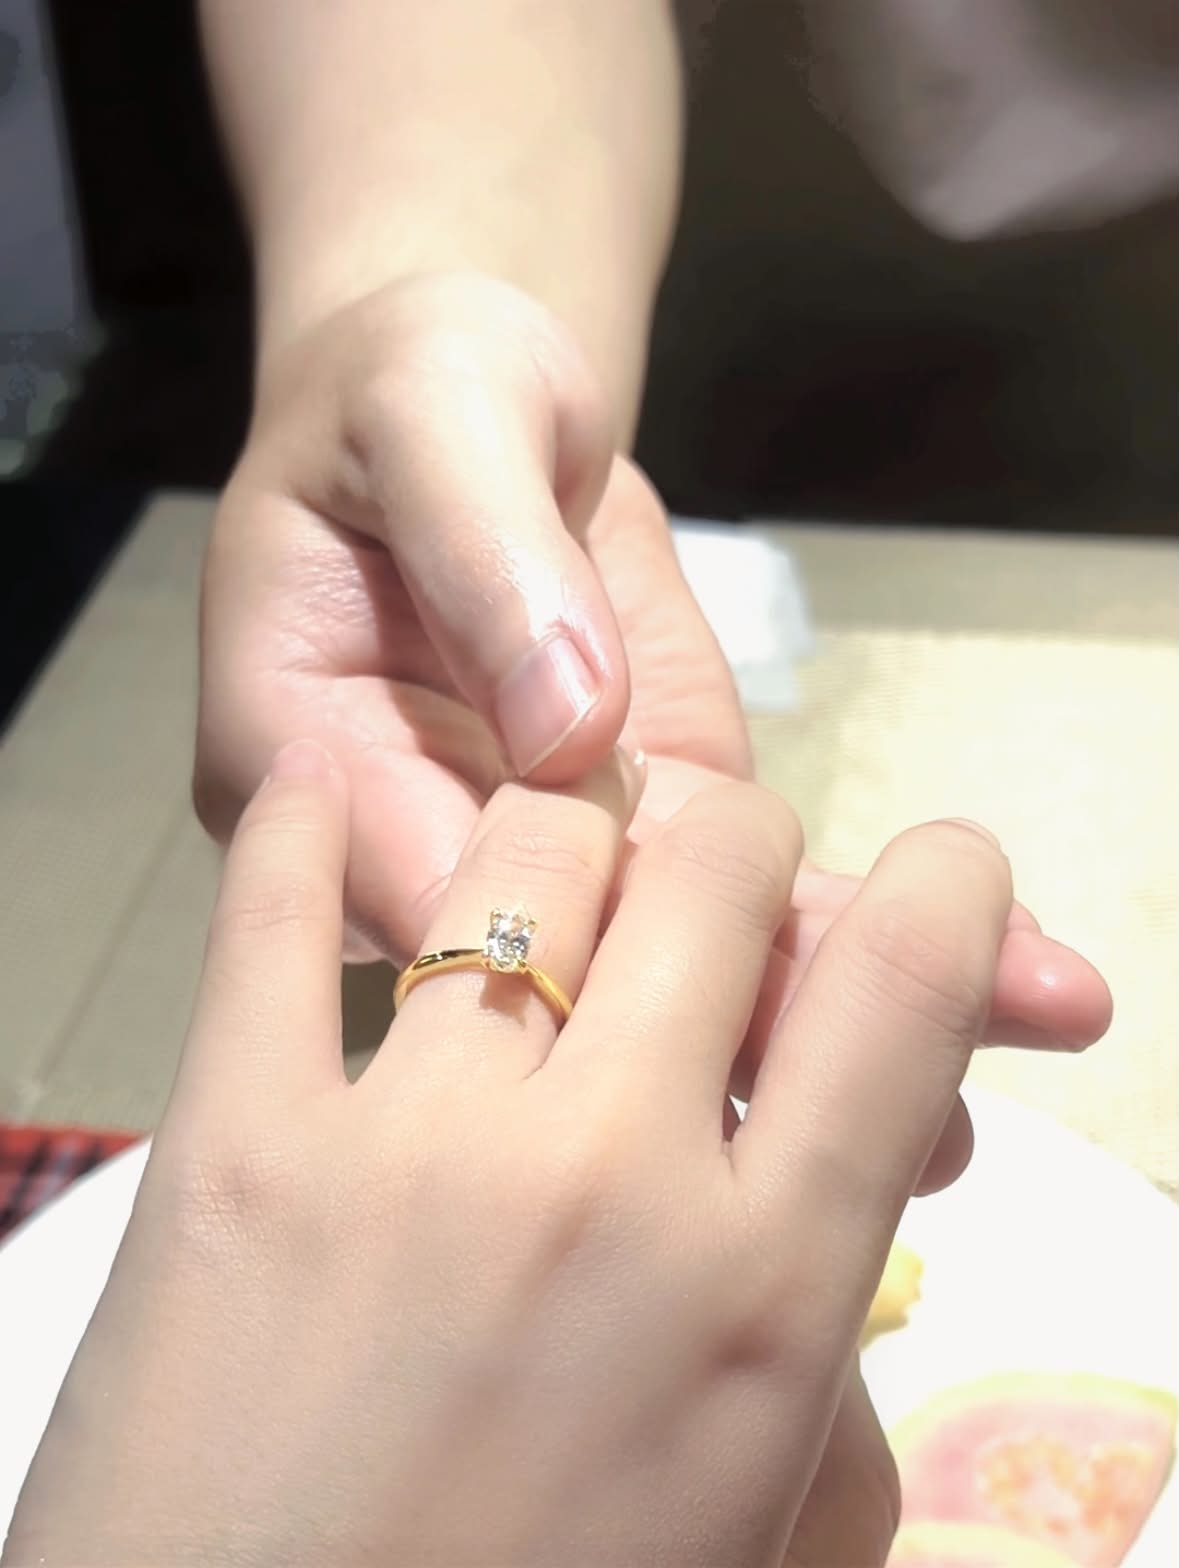
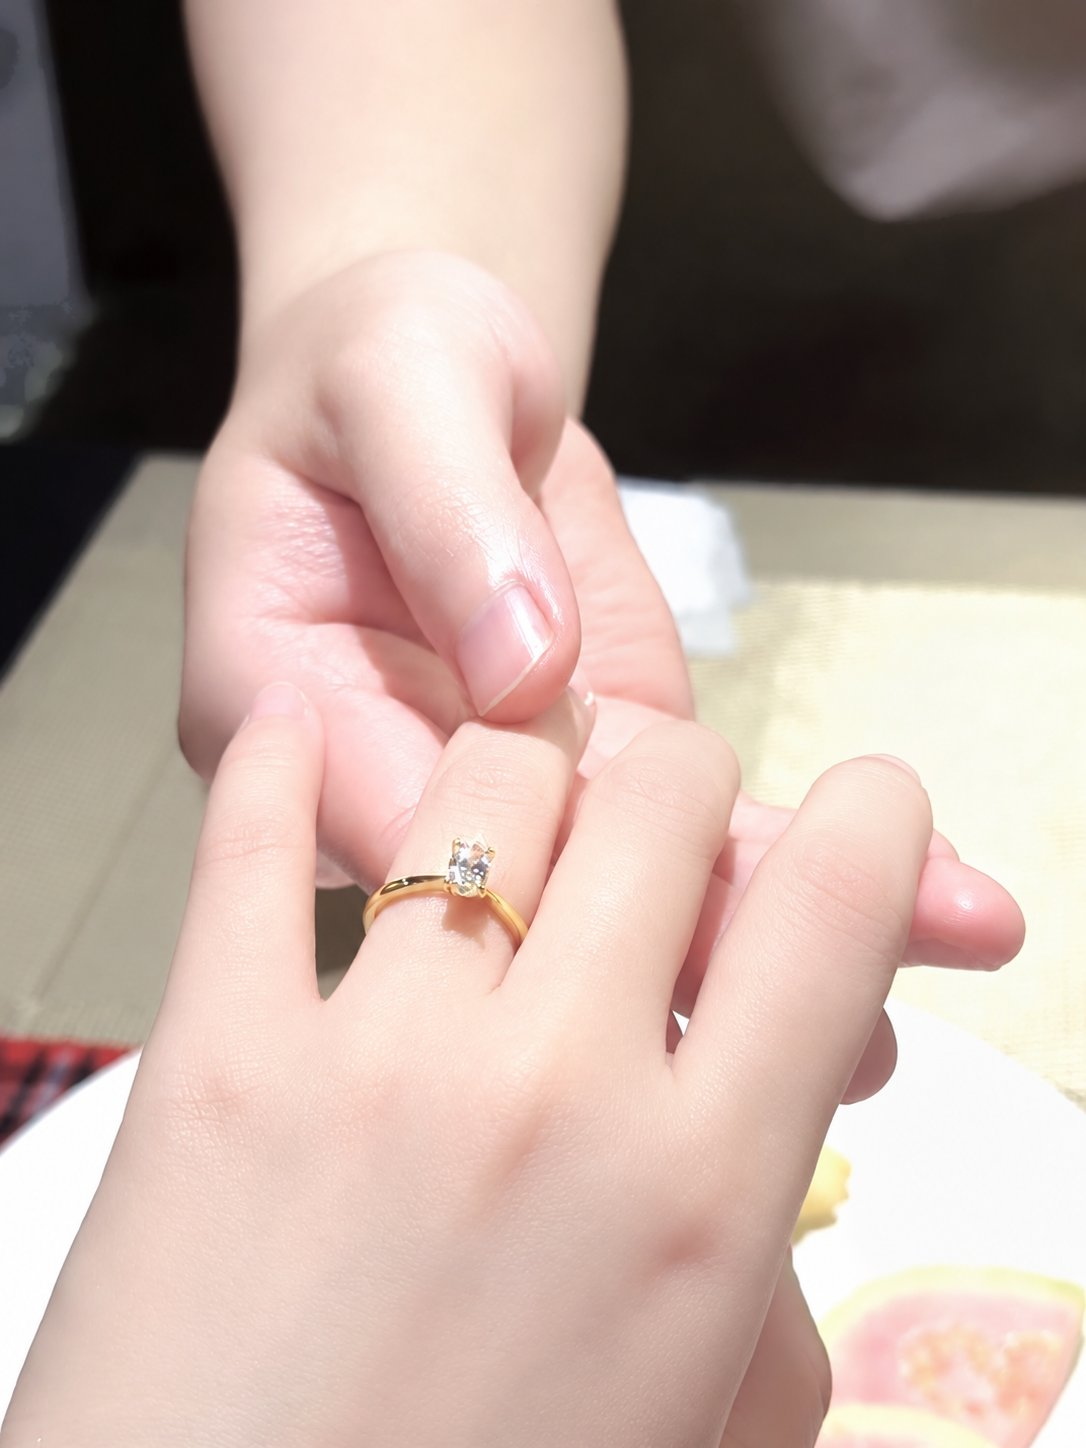
feat: ảnh tay và khoảnh khắc cầu hôn mới, sao lấp lánh quanh tên cô dâu chú rể
- Ảnh cánh tay mới (960×1280), đo lại điểm nhẫn đáp vào kim cương, bỏ tăng sáng vì ảnh đã đủ sáng
- Ảnh khoảnh khắc cầu hôn thứ 2 bản sáng trắng hơn
- Sao 4 cánh nhấp nháy quanh tên cô dâu chú rể, cùng nhịp sao ở váy cưới
- Khoảnh khắc cầu hôn giữ lâu hơn 35% (4s → 5,4s)

diff --git a/css/style.css b/css/style.css
@@ -757,6 +757,7 @@ a:focus-visible {
 /* ── Tên cô dâu chú rể ── */
 /* Hai tên so le: người đầu lệch trái, "&" ở giữa, người sau lệch phải. */
 .invite__couple {
+  position: relative;
   display: grid;
   grid-template-columns: 1fr;
   row-gap: 0.1rem;
@@ -772,11 +773,11 @@ a:focus-visible {
   text-align: center;
 }
 
-.invite__couple-person:first-child {
+.invite__couple-person:first-of-type {
   justify-self: start;
 }
 
-.invite__couple-person:last-child {
+.invite__couple-person:last-of-type {
   justify-self: end;
 }
 
@@ -803,6 +804,71 @@ a:focus-visible {
   font-style: italic;
   line-height: 1;
   color: var(--ir-red);
+}
+
+/* Sao 4 cánh lấp lánh quanh tên (dùng lại nhịp dressTwinkle của váy cưới). */
+.invite__couple-stars {
+  position: absolute;
+  inset: -0.5rem -0.75rem;
+  pointer-events: none;
+}
+.invite__couple-stars i {
+  position: absolute;
+  width: 0.8rem;
+  height: 0.8rem;
+  background: linear-gradient(135deg, #f1dfb0, var(--color-gold) 55%, #99764e);
+  clip-path: polygon(
+    50% 0,
+    61% 39%,
+    100% 50%,
+    61% 61%,
+    50% 100%,
+    39% 61%,
+    0 50%,
+    39% 39%
+  );
+  animation: dressTwinkle 2.8s ease-in-out infinite;
+}
+.invite__couple-stars i:nth-child(1) {
+  top: 2%;
+  right: 6%;
+  width: 1rem;
+  height: 1rem;
+}
+.invite__couple-stars i:nth-child(2) {
+  top: 24%;
+  right: 20%;
+  width: 0.55rem;
+  height: 0.55rem;
+  animation-delay: 0.9s;
+}
+.invite__couple-stars i:nth-child(3) {
+  top: 44%;
+  left: 34%;
+  width: 0.6rem;
+  height: 0.6rem;
+  animation-delay: 1.8s;
+}
+.invite__couple-stars i:nth-child(4) {
+  top: 44%;
+  right: 33%;
+  width: 0.5rem;
+  height: 0.5rem;
+  animation-delay: 0.5s;
+}
+.invite__couple-stars i:nth-child(5) {
+  bottom: 26%;
+  left: 5%;
+  width: 0.95rem;
+  height: 0.95rem;
+  animation-delay: 1.3s;
+}
+.invite__couple-stars i:nth-child(6) {
+  bottom: 4%;
+  left: 20%;
+  width: 0.5rem;
+  height: 0.5rem;
+  animation-delay: 2.2s;
 }
 
 /* ── Ba tấm ảnh so le ── */
@@ -2344,18 +2410,20 @@ html.has-ring-gate body {
   display: block;
   width: 100%;
   height: auto;
-  /* Ảnh gốc hơi tối trên nền đỏ sẫm: nâng sáng + ấm nhẹ cho da tươi hơn. */
-  filter: brightness(1.18) contrast(1.04) saturate(1.08)
+  /* Ảnh gốc đã đủ sáng: chỉ tăng nhẹ tương phản + ấm cho da tươi trên nền đỏ sẫm. */
+  filter: contrast(1.04) saturate(1.08)
     drop-shadow(0 20px 32px rgba(43, 20, 28, 0.34));
 }
 
 .ring-gate__hand-target {
   position: absolute;
   /* Cùng toạ độ nhẫn trên ảnh ở phần Story; target đi theo ảnh khi responsive. */
-  left: 46%;
-  top: 64%;
+  /* Tâm viên kim cương trên proposal-ring.webp (484/1086, 910/1448). */
+  left: 44.6%;
+  top: 62.8%;
   width: clamp(1.25rem, 4vw, 2rem);
   aspect-ratio: 1;
+  transform: translate(-50%, -50%);
 }
 
 .ring-gate__proposal-memory {

diff --git a/index.html b/index.html
@@ -57,7 +57,7 @@
       rel="stylesheet"
       href="https://cdn.jsdelivr.net/npm/photoswipe@5.4.4/dist/photoswipe.css"
     />
-    <link rel="stylesheet" href="css/style.css?v=20260929e" />
+    <link rel="stylesheet" href="css/style.css?v=20260929g" />
     <!-- Danh sách khách load trước events.js: link ngắn ?<mã> tự suy ra loại thiệp theo khách -->
     <script src="js/guests/nha-trai.js?v=20260929b"></script>
     <script src="js/guests/nha-gai.js?v=20260929b"></script>
@@ -136,10 +136,10 @@
             <div class="ring-gate__hand-wrap">
               <img
                 class="ring-gate__hand"
-                src="assets/proposal-ring.webp"
+                src="assets/proposal-ring.webp?v=20260929"
                 alt=""
                 width="960"
-                height="1200"
+                height="1280"
               />
               <span
                 class="ring-gate__hand-target"
@@ -161,10 +161,10 @@
               </span>
               <span class="ring-gate__proposal-frame">
                 <img
-                  src="assets/proposal-moment-2.jpg"
+                  src="assets/proposal-moment-2.jpg?v=20260929"
                   alt=""
-                  width="1185"
-                  height="1600"
+                  width="1086"
+                  height="1448"
                 />
               </span>
             </div>
@@ -325,6 +325,10 @@
                 >Út Nữ</span
               >
             </p>
+            <!-- Sao lấp lánh quanh tên, cùng nhịp với sao ở váy cưới -->
+            <span class="invite__couple-stars" aria-hidden="true">
+              <i></i><i></i><i></i><i></i><i></i><i></i>
+            </span>
           </div>
 
           <div
@@ -1231,6 +1235,6 @@
       defer
     ></script>
     <script src="js/lunar.js?v=20260929b" defer></script>
-    <script src="js/main.js?v=20260929d" defer></script>
+    <script src="js/main.js?v=20260929e" defer></script>
   </body>
 </html>

diff --git a/js/main.js b/js/main.js
@@ -500,7 +500,7 @@
   function showProposalMoment() {
     ringGate.setAttribute("data-step", "proposal");
     // Đủ thời gian để xem ảnh và đọc lời cầu hôn trước khi vào trang chính (chạm để qua sớm).
-    setTimeout(leaveRingGate, 4000);
+    setTimeout(leaveRingGate, 5400);
   }
 
   function leaveRingGate() {
